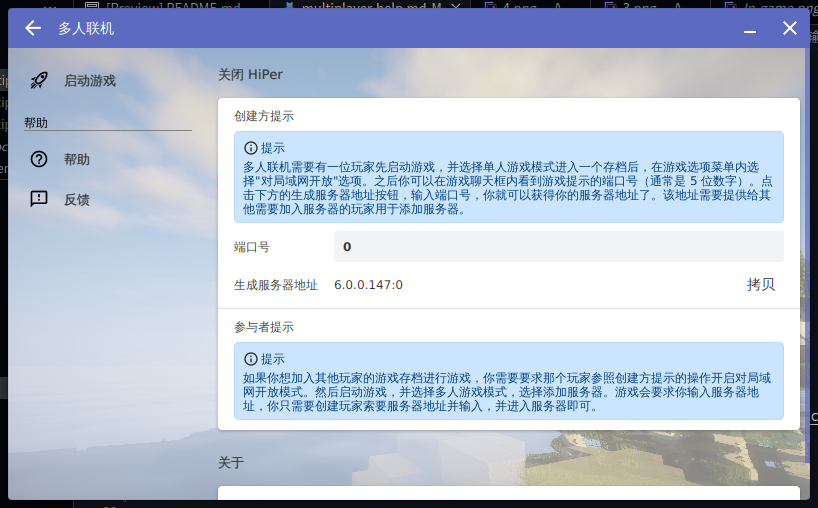
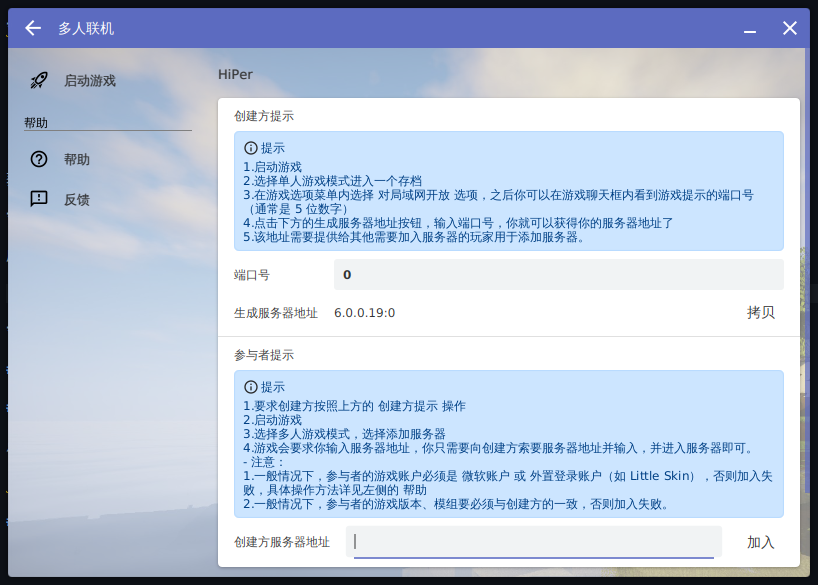
修改多人联机文档 (#19)

diff --git a/_multiplayer/multiplayer-help.md b/_multiplayer/multiplayer-help.md
@@ -135,7 +135,9 @@ sudo java -jar HMCl.jar
 
 ## 注意
 
-1.一般情况下，参与者的游戏账户必须是** 微软账户 或 外置登录账户（如 Little Skin）**，否则加入失败，具体操作方法详见[此处](multiplayer/account.html)
+1.一般情况下，参与者的游戏账户必须是** 微软账户 或 外置登录账户（如 Little Skin）**，否则你需要将服务器地址输入至下方的输入框中并点击“加入”，在游戏中选择多人游戏模式，进入局域网世界方可加入！
+
+![](/assets/img/docs/multiplayer/help/9.png)
 
 2.一般情况下，参与者的游戏版本、模组要必须与创建方的一致，否则加入失败。
 

diff --git a/_multiplayer/multiplayer-account.md b/_multiplayer/multiplayer-account.md
@@ -10,6 +10,9 @@ toc: true
 
 > The passages were written in Simplified Chinese. If you want to help translate them, please send a pull request on https://github.com/huanghongxun/HMCL-docs/pulls . Or you can enable your translation tool to read.
 
+
+# 已荒废，可能是过期的！
+
 # 售后
 
 [加入 官方交流QQ群 ，你所有的问题都可以在这里帮助你解答](/multiplayer/feedback.html)
